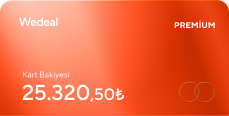
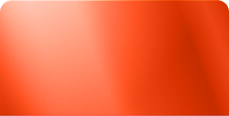
Modified creditCard png & some styles

diff --git a/src/svg/icons.js b/src/svg/icons.js
@@ -1,6 +1,6 @@
 import React from 'react';
 import {TouchableOpacity, View} from 'react-native';
-import Svg, {Path} from 'react-native-svg';
+import Svg, {Defs, G, LinearGradient, Path, Stop} from 'react-native-svg';
 
 const Icons = props => {
   const {iconName, color, width, height, onPress, style} = props;
@@ -290,21 +290,62 @@ const Icons = props => {
           </Svg>
         </TouchableOpacity>
       );
-    case 'drink2':
+    case 'masterCard':
       return (
         <TouchableOpacity style={style} onPress={onPress} disabled={!onPress}>
           <Svg
-            width="20"
-            height="20"
-            viewBox="0 0 20 20"
+            width={37}
+            height={22}
+            viewBox="0 0 37 22"
             fill="none"
-            xmlns="http://www.w3.org/2000/svg">
-            <Path
-              fill-rule="evenodd"
-              clip-rule="evenodd"
-              d="M7.79408 2.99478C7.63938 2.34383 7.05577 1.875 6.37561 1.875H4.16668L4.08187 1.88071C3.77681 1.92209 3.54168 2.18359 3.54168 2.5C3.54168 2.84518 3.8215 3.125 4.16668 3.125H6.37561L6.42565 3.13107C6.506 3.15092 6.56893 3.21755 6.58154 3.30256L6.86496 5.20833H4.16668C3.76186 5.20833 3.37525 5.37661 3.09938 5.67288C2.82351 5.96916 2.68321 6.36678 2.71205 6.77057L3.00461 10.8663C3.00503 10.8745 3.00561 10.8826 3.00635 10.8907L3.37106 15.9966C3.45672 17.1958 4.4546 18.125 5.6569 18.125H11.843C13.0453 18.125 14.0432 17.1958 14.1289 15.9966L14.5735 9.7721C16.5621 9.57423 18.125 7.8863 18.125 5.83333C18.125 3.64721 16.3528 1.875 14.1667 1.875C12.1932 1.875 10.5571 3.31918 10.2574 5.20833H8.12871L7.81798 3.1189L7.79408 2.99478ZM11.5308 5.20833C11.813 4.01387 12.886 3.125 14.1667 3.125C15.6624 3.125 16.875 4.33756 16.875 5.83333C16.875 7.159 15.9226 8.2622 14.6646 8.49598L14.7879 6.77057C14.8167 6.36679 14.6764 5.96918 14.4006 5.67291C14.1247 5.37663 13.7381 5.20833 13.3333 5.20833H11.5308ZM10.8333 6.45833H8.3146L8.87227 10.2083H13.2892L13.5411 6.68151C13.5452 6.62383 13.5251 6.56703 13.4857 6.5247C13.4463 6.48237 13.3911 6.45833 13.3333 6.45833H10.8333ZM4.61789 15.9075L4.30008 11.4583H8.32234C8.32914 11.4584 8.33596 11.4584 8.3428 11.4583H13.1999L12.8821 15.9075C12.8431 16.4527 12.3895 16.875 11.843 16.875H5.6569C5.1104 16.875 4.65682 16.4527 4.61789 15.9075ZM4.21079 10.2083H7.60852L7.05085 6.45833H4.16668C4.10885 6.45833 4.05362 6.48237 4.01421 6.5247C3.9748 6.56702 3.95476 6.62383 3.95888 6.68151L4.21079 10.2083Z"
-              fill="#E13915"
-            />
+            xmlns="http://www.w3.org/2000/svg"
+            {...props}>
+            <G
+              style={{
+                mixBlendMode: 'overlay',
+              }}
+              opacity={0.3}
+              filter="url(#filter0_f_0_1)">
+              <Path
+                d="M36.349 11.317c-.121 5.436-4.623 9.744-10.054 9.621-5.43-.122-9.736-4.628-9.614-10.064.121-5.436 4.622-9.743 10.053-9.62 5.431.121 9.736 4.627 9.615 10.063z"
+                stroke="url(#paint0_linear_0_1)"
+                strokeWidth={0.569951}
+              />
+            </G>
+            <G
+              style={{
+                mixBlendMode: 'overlay',
+              }}
+              opacity={0.3}
+              filter="url(#filter1_f_0_1)">
+              <Path
+                d="M21.183 11.081c-.121 5.436-4.623 9.743-10.054 9.621-5.43-.122-9.736-4.628-9.614-10.064.121-5.436 4.622-9.744 10.053-9.621 5.431.122 9.736 4.628 9.615 10.064z"
+                stroke="url(#paint1_linear_0_1)"
+                strokeWidth={0.569951}
+              />
+            </G>
+            <Defs>
+              <LinearGradient
+                id="paint0_linear_0_1"
+                x1={18.5155}
+                y1={4.79964}
+                x2={34.908}
+                y2={21.5329}
+                gradientUnits="userSpaceOnUse">
+                <Stop stopColor="#fff" />
+                <Stop offset={1} stopColor="#fff" stopOpacity={0} />
+              </LinearGradient>
+              <LinearGradient
+                id="paint1_linear_0_1"
+                x1={3.3495}
+                y1={4.56331}
+                x2={19.742}
+                y2={21.2966}
+                gradientUnits="userSpaceOnUse">
+                <Stop stopColor="#fff" />
+                <Stop offset={1} stopColor="#fff" stopOpacity={0} />
+              </LinearGradient>
+            </Defs>
           </Svg>
         </TouchableOpacity>
       );

diff --git a/src/components/CardHeader.js b/src/components/CardHeader.js
@@ -1,7 +1,8 @@
 import React from 'react';
-import {StyleSheet, Text, Image} from 'react-native';
+import {StyleSheet, Text, ImageBackground, View} from 'react-native';
 import LinearGradient from 'react-native-linear-gradient';
 import {deviceWidth} from '../navigation/bottomTab';
+import Icons from '../svg/icons';
 
 export const CardHeader = () => {
   return (
@@ -14,11 +15,24 @@ export const CardHeader = () => {
         {width: deviceWidth, height: deviceWidth * designHeaderRatio},
       ]}>
       <Text style={styles.cardHeaderText}>Kartım</Text>
-      <Image
+      <ImageBackground
         source={require('../assets/cardExp.png')}
         style={styles.cardImage}
-        resizeMode="cover"
-      />
+        resizeMode="cover">
+        <View style={{justifyContent: 'space-between', flex: 1}}>
+          <View style={styles.creditCardTopWrapper}>
+            <Text style={styles.creditCardTopText}>WEDAL</Text>
+            <Text style={styles.creditCardTopText}>PREMIUM</Text>
+          </View>
+          <View style={[styles.creditCardTopWrapper, {marginBottom: 10}]}>
+            <View>
+              <Text style={styles.creditCardTopText}>Kart Bakiyesi</Text>
+              <Text style={styles.creditCardPriceText}>25.320,50₺</Text>
+            </View>
+            <Icons iconName="masterCard" />
+          </View>
+        </View>
+      </ImageBackground>
     </LinearGradient>
   );
 };
@@ -42,5 +56,23 @@ const styles = StyleSheet.create({
     width: 230,
     height: 115,
     alignSelf: 'center',
+  },
+  creditCardTopWrapper: {
+    flexDirection: 'row',
+    justifyContent: 'space-between',
+    paddingHorizontal: 19,
+    paddingTop: 17,
+  },
+  creditCardTopText: {
+    fontSize: 9,
+    lineHeight: 16,
+    fontWeight: '700',
+    color: '#fff',
+  },
+  creditCardPriceText: {
+    fontSize: 21,
+    lineHeight: 23,
+    fontWeight: '500',
+    color: '#fff',
   },
 });

diff --git a/src/navigation/bottomTab.js b/src/navigation/bottomTab.js
@@ -3,7 +3,7 @@ import {createBottomTabNavigator} from '@react-navigation/bottom-tabs';
 import Home from '../screens/Home';
 import Card from '../screens/Card';
 import Profile from '../screens/Profile';
-import {Text, Dimensions, TouchableOpacity} from 'react-native';
+import {Text, Dimensions, TouchableOpacity, View} from 'react-native';
 import Icons from '../svg/icons';
 
 export const deviceWidth = Dimensions.get('window').width;
@@ -30,12 +30,13 @@ const BottomTab = () => (
               width: deviceWidth / 3,
               alignItems: 'center',
             }}>
-            <Text
+            <View
               style={{
                 borderTopWidth: props?.accessibilityState?.selected ? 2 : 0,
                 borderRadius: 1,
                 width: barWidth,
                 borderColor: labelColor,
+                marginBottom: 10,
               }}
             />
             <Icons
@@ -60,7 +61,9 @@ const BottomTab = () => (
         height: tabBarHeight,
         borderRadius: 10,
         backgroundColor: '#fff',
+        width: deviceWidth,
       },
+
       tabBarActiveTintColor: '#E13915',
       tabBarInactiveTintColor: '#C1C8CD',
       headerShown: false,
